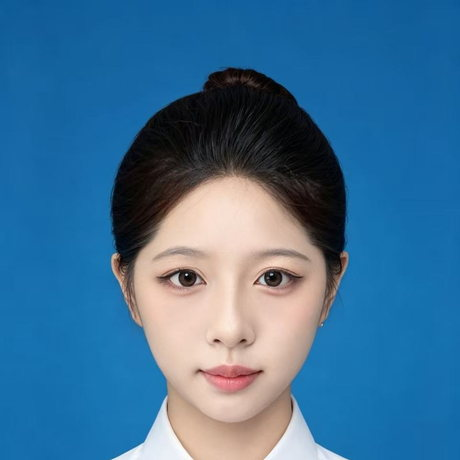
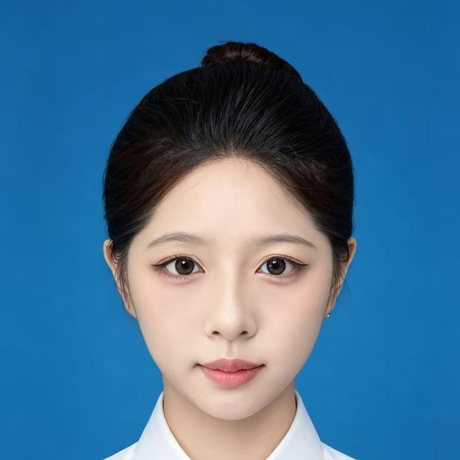
旅游图改为分辨率阶梯：480/720/原尺寸三档，杜绝拉伸模糊

diff --git a/index.html b/index.html
@@ -756,7 +756,7 @@ section{padding:80px 24px;max-width:1200px;margin:0 auto}
     <div class="section-header reveal">
       <span class="section-tag">实践经历</span>
       <h2 class="section-title">把责任做成方法</h2>
-      <p class="section-subtitle">三年语文课代表 + 公益志愿 + 摄影记录，每一项都落到实处</p>
+      <p class="section-subtitle">三年语文课代表，把协调、反馈与记录做成了一套方法</p>
     </div>
     <div class="timeline reveal" id="expTimeline"></div>
   </section>
@@ -865,20 +865,19 @@ const resume = {
   badges: [
     "旅行人像", "风光摄影", "氛围感调色", "文案撰写",
     "选题策划", "后期修图", "活动跟拍", "组织协调",
-    "Office 套件", "公益志愿", "汉服文化"
+    "Office 套件", "汉服文化"
   ],
   stats: [
     { num: "3年",   label: "语文课代表" },
     { num: "5+城",  label: "旅行足迹" },
     { num: "500+",  label: "摄影作品" },
-    { num: "2项",   label: "校园活动" }
+    { num: "1项",   label: "校园活动" }
   ],
   highlights: [
     { icon: "🏜", num: "敦煌",    title: "大漠文化之旅",   desc: "打卡莫高窟、鸣沙山月牙泉，着汉服拍摄古风人像，感受千年文化底蕴" },
     { icon: "💚", num: "察尔汗",  title: "盐湖秘境探索",   desc: "深入格尔木察尔汗盐湖，记录翡翠绿湖面与白色盐滩的极致对比" },
     { icon: "🪞", num: "天空之镜", title: "茶卡盐湖创作",   desc: "海拔 3059 米的天空之镜，拍摄天地倒影与人像融合的诗意画面" },
     { icon: "📚", num: "3年",     title: "语文课代表",     desc: "连续三年负责全班 45 名同学的作业收发、课堂记录与学习任务提醒" },
-    { icon: "✍", num: "200+",    title: "公益志愿服务",   desc: "书赠春联活动协助赠送春联 100 余幅，服务师生 200 余人次" },
     { icon: "🖼", num: "5幅",     title: "校园摄影参赛",   desc: "「我与校园初相遇」主题摄影活动提交作品 5 幅，评选进行中" }
   ],
   experience: [
@@ -892,18 +891,6 @@ const resume = {
         "建立作业登记与提醒机制，帮助提升作业收缴效率，减少重复沟通成本",
         "汇总同学学习疑问并分类反馈老师，充当师生沟通桥梁，获得师生一致认可",
         "参与班级黑板报、活动文案与材料整理，提升文字表达与跨角色协作能力"
-      ]
-    },
-    {
-      title: "书赠春联公益活动志愿者 / 摄影记录",
-      company: "兰水中学",
-      date: "2025.01",
-      duties: [
-        "参与学校组织的书赠春联公益活动，协助现场布置、秩序维护、春联晾晒与发放，保障活动有序进行",
-        "发挥摄影技能承担活动跟拍，完成现场取景、人物抓拍与关键环节记录，累计拍摄 30 余张",
-        "协助向师生赠送春联 100 余幅，服务师生 200 余人次，提升校园春节文化氛围",
-        "配合活动宣传素材整理，筛选并提交可用照片 10 张，用于校内展示与公众号推文",
-        "展现责任心、服务意识与团队协作能力，获活动组织方与师生认可"
       ]
     }
   ],
@@ -982,7 +969,7 @@ const resume = {
       { name: "英语",   level: 55, desc: "基础读写能力" }
     ]},
     { category: "核心素养", icon: "🌟", badges: [
-      "跨角色协作", "师生沟通", "公益服务", "汉服文化", "镜头表达", "行程统筹"
+      "跨角色协作", "师生沟通", "汉服文化", "镜头表达", "行程统筹"
     ]}
   ],
   education: [
@@ -998,14 +985,11 @@ const resume = {
       degree: "高中 · 毕业",
       date: "2023.09 - 2026.06",
       score: "优势学科：语文成绩良好",
-      desc: "连续三年担任语文课代表，参与学校书赠春联公益活动与「我与校园初相遇」摄影主题活动。热爱旅行与摄影，足迹遍布西北、华东多地，有扎实的文字功底、组织协调能力与摄影实践基础。"
+      desc: "连续三年担任语文课代表，参与「我与校园初相遇」摄影主题活动。热爱旅行与摄影，足迹遍布西北、华东多地，有扎实的文字功底、组织协调能力与摄影实践基础。"
     }
   ],
   records: [
     { main: "连续三年担任语文课代表",        sub: "兰水中学 · 2023.09 - 2026.06" },
-    { main: "书赠春联公益志愿服务",          sub: "服务师生 200+ 人次 · 2025.01" },
-    { main: "公益活动跟拍摄影记录",          sub: "现场拍摄 30+ 张 · 2025.01" },
-    { main: "宣传素材整理与投稿",            sub: "提交可用照片 10 张用于校内展示 · 2025.01" },
     { main: "「我与校园初相遇」摄影主题活动", sub: "提交作品 5 幅 · 2026.09" },
     { main: "西北大环线旅行摄影创作",        sub: "累计作品 500+ 张 · 独立策划" },
     { main: "敦煌汉服古风人像创作",          sub: "莫高窟 / 鸣沙山取景" },
